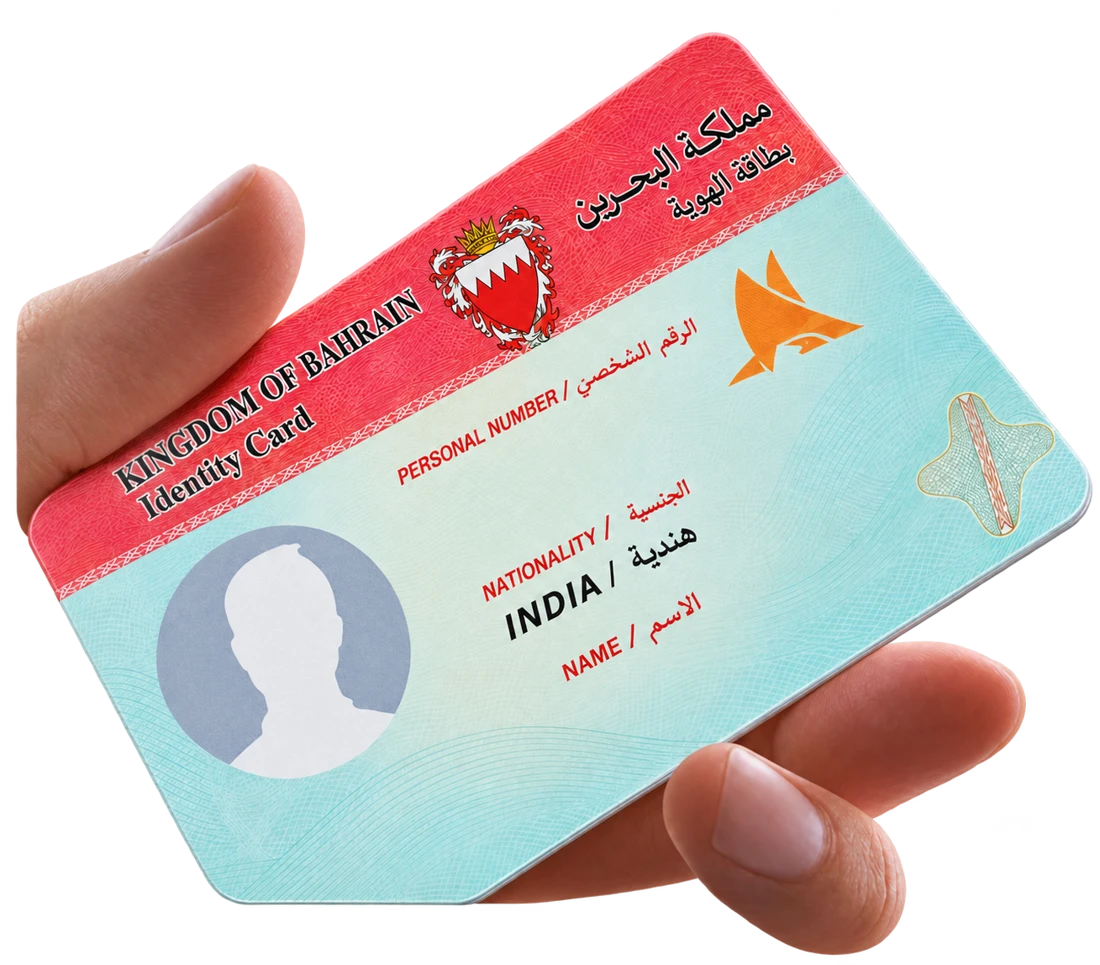
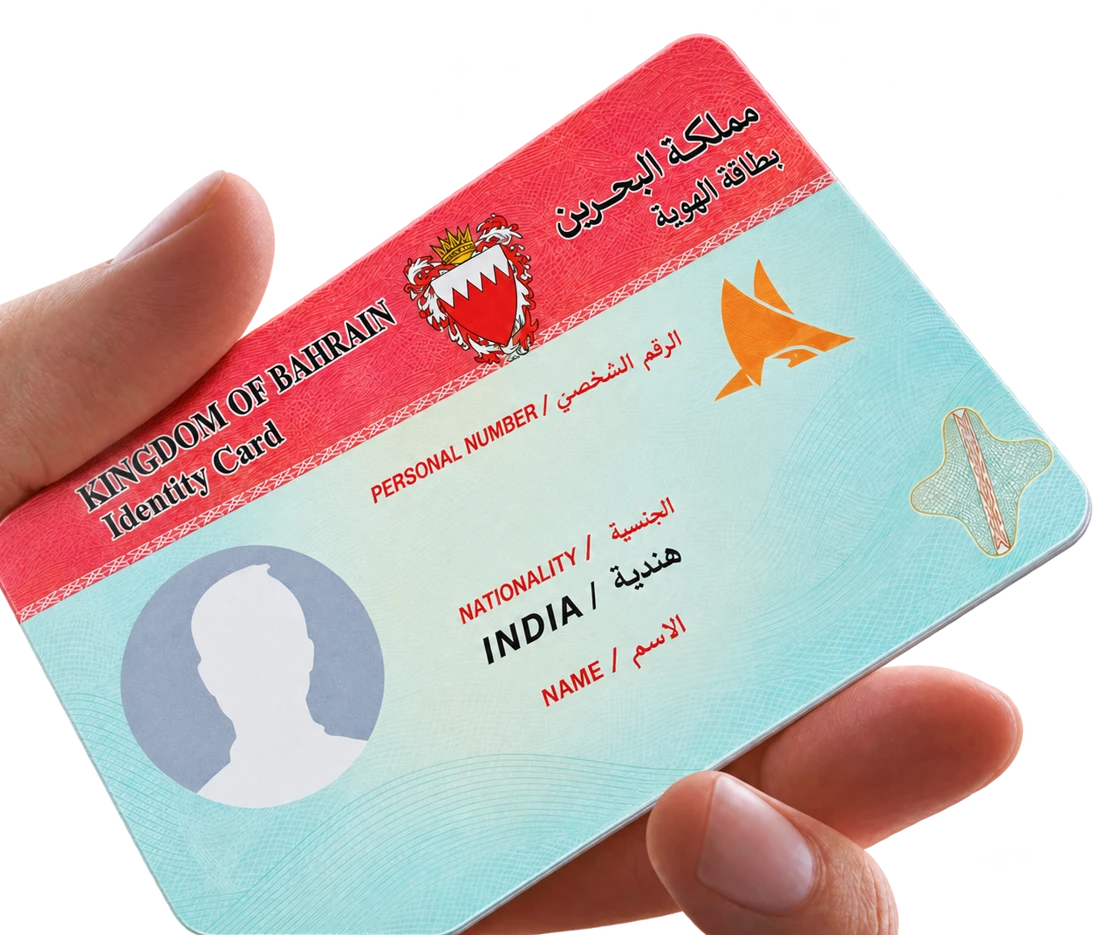
CIO hero: new card image with left white fade
Claude-Session: https://claude.ai/code/session_01Q8SfPFzKec2UT1Fop63zbA

diff --git a/cio-services.html b/cio-services.html
@@ -11166,8 +11166,8 @@ input, select, textarea {
   .msr .msr-tags .msr-tag i svg { stroke:#0d9b49 !important; }
 </style>
 <style id="cio-hero-fit2">
-  @media (min-width:861px) { .msr-photo.cio-hero-img { top:50% !important; bottom:auto !important; transform:translateY(-50%) !important; height:84% !important; left:1.2% !important; -webkit-mask-image:none !important; mask-image:none !important; } }
-  @media (max-width:860px) { .msr-photo.cio-hero-img { -webkit-mask-image:none !important; mask-image:none !important; } }
+  @media (min-width:861px) { .msr-photo.cio-hero-img { top:50% !important; bottom:auto !important; transform:translateY(-50%) !important; height:86% !important; left:0 !important; -webkit-mask-image:linear-gradient(90deg,transparent 0,rgba(0,0,0,.35) 8%,#000 24%) !important; mask-image:linear-gradient(90deg,transparent 0,rgba(0,0,0,.35) 8%,#000 24%) !important; } }
+  @media (max-width:860px) { .msr-photo.cio-hero-img { -webkit-mask-image:linear-gradient(90deg,transparent 0,#000 22%) !important; mask-image:linear-gradient(90deg,transparent 0,#000 22%) !important; } }
 </style>
 </head>
 <body>
@@ -11283,7 +11283,7 @@ input, select, textarea {
         </div>
         <div class="msr-band">
           <span class="msr-glow" aria-hidden="true"></span>
-          <img class="msr-photo cio-hero-img" src="assets/cio-cpr-hand.webp" alt="Hand holding a Bahrain identity card" width="1100" height="965" fetchpriority="high" decoding="async">
+          <img class="msr-photo cio-hero-img" src="assets/cio-cpr-hand.webp?v=2" alt="Hand holding a Bahrain identity card" width="1100" height="935" fetchpriority="high" decoding="async">
           <div class="msr-tags"><a class="msr-tag" href="#cio-services" style="--d:0.00s"><i aria-hidden="true"><svg viewBox="0 0 24 24"><rect x="2" y="5" width="20" height="14" rx="2"/><circle cx="8" cy="12" r="2.4"/><path d="M5 17a3.3 3.3 0 0 1 6 0M14 10h5M14 14h3"/></svg></i>CPR registration</a><a class="msr-tag" href="#cio-services" style="--d:0.10s"><i aria-hidden="true"><svg viewBox="0 0 24 24"><path d="M21 12a9 9 0 1 1-3-6.7"/><path d="M21 4v5h-5"/></svg></i>CPR renewal</a><a class="msr-tag" href="#cio-services" style="--d:0.20s"><i aria-hidden="true"><svg viewBox="0 0 24 24"><path d="M12 21s7-6.2 7-12a7 7 0 0 0-14 0c0 5.8 7 12 7 12z"/><circle cx="12" cy="9" r="2.5"/></svg></i>Address update</a><a class="msr-tag" href="#cio-services" style="--d:0.30s"><i aria-hidden="true"><svg viewBox="0 0 24 24"><path d="M14 3H7a2 2 0 0 0-2 2v14a2 2 0 0 0 2 2h10a2 2 0 0 0 2-2V8z"/><path d="M14 3v5h5"/><path d="m9 14 2 2 4-4"/></svg></i>CIO certificates</a></div>
         </div>
       </div>
